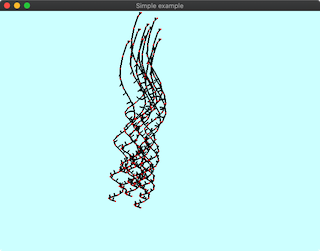
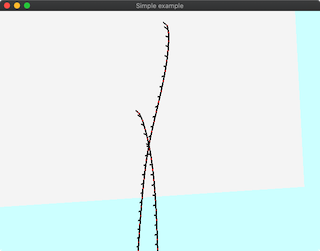
updated demo for rod contact #60 #40
added readme & thumbnail image
fixed minor compile error
add "find minimum lineseg liseg distance " to vec3.cpp

diff --git a/examples_glfwold/617_FemRodHairSelfcollision/main.cpp b/examples_glfwold/617_FemRodHairSelfcollision/main.cpp
@@ -117,112 +117,12 @@ void MakeProblemSetting_Spiral
   }
 }
 
-
-double FindMinimumDistance_EdgeEdge(
-    double p[3],
-    const dfm2::CVec3d& p0s,
-    const dfm2::CVec3d& p0e,
-    const dfm2::CVec3d& p1s,
-    const dfm2::CVec3d& p1e,
-    const dfm2::CVec3d& q0s,
-    const dfm2::CVec3d& q0e,
-    const dfm2::CVec3d& q1s,
-    const dfm2::CVec3d& q1e,
-    unsigned int nitr )
-{
-  dfm2::CVec3d v0;
-  for(unsigned int itr=0;itr<nitr;++itr) {
-    const double s0 = p[0], t0 = p[1], u0 = p[2];
-    v0 =
-        + ((1 - s0) * (1 - u0)) * p0s + ((1 - s0) * u0) * p0e + (s0 * (1 - u0)) * p1s + (s0 * u0) * p1e
-        - ((1 - t0) * (1 - u0)) * q0s - ((1 - t0) * u0) * q0e - (t0 * (1 - u0)) * q1s - (t0 * u0) * q1e;
-    const dfm2::CVec3d ds = -(1 - u0) * p0s - u0 * p0e + (1 - u0) * p1s + u0 * p1e;
-    const dfm2::CVec3d dt = +(1 - u0) * q0s + u0 * q0e - (1 - u0) * q1s - u0 * q1e;
-    const dfm2::CVec3d du =
-        - (1 - s0) * p0s + (1 - s0) * p0e - s0 * p1s + s0 * p1e
-        + (1 - t0) * q0s - (1 - t0) * q0e + t0 * q1s - t0 * q1e;
-    const dfm2::CVec3d dsu = + p0s - p0e - p1s + p1e;
-    const dfm2::CVec3d dtu = - q0s + q0e + q1s - q1e;
-    double R[3] = { v0*ds, v0*dt, v0*du };
-    double A[9] = {
-        ds*ds,        ds*dt,        ds*du+v0*dsu,
-        dt*ds,        dt*dt,        dt*du*v0*dtu,
-        du*ds+v0*dsu, du*dt+v0*dtu, du*du };
-    {
-      double eps = (A[0] + A[4] + A[8]) * 1.0e-10 + 1.0e-20;
-      A[0] += eps;
-      A[4] += eps;
-      A[8] += eps;
-    }
-    dfm2::Inverse_Mat3(A);
-    double D[3];
-    dfm2::MatVec3(D, A, R);
-    p[0] -= D[0];
-    p[1] -= D[1];
-    p[2] -= D[2];
-    if (p[0] < 0) { p[0] = 0.0; } else if (p[0] > 1) { p[0] = 1.0; }
-    if (p[1] < 0) { p[1] = 0.0; } else if (p[1] > 1) { p[1] = 1.0; }
-    if (p[2] < 0) { p[2] = 0.0; } else if (p[2] > 1) { p[2] = 1.0; }
-  }
-  return v0.Length();
-}
-
-
-
-double FindIntersection_LinesegLineseg(
-    double p[3],
-    const dfm2::CVec3d& p0s,
-    const dfm2::CVec3d& p0e,
-    const dfm2::CVec3d& p1s,
-    const dfm2::CVec3d& p1e,
-    const dfm2::CVec3d& q0s,
-    const dfm2::CVec3d& q0e,
-    const dfm2::CVec3d& q1s,
-    const dfm2::CVec3d& q1e,
-    unsigned int nitr )
-{
-  dfm2::CVec3d v0;
-  for(unsigned int itr=0;itr<nitr;++itr) {
-    const double s0 = p[0], t0 = p[1], u0 = p[2];
-    v0 =
-        + ((1 - s0) * (1 - u0)) * p0s + ((1 - s0) * u0) * p0e + (s0 * (1 - u0)) * p1s + (s0 * u0) * p1e
-        - ((1 - t0) * (1 - u0)) * q0s - ((1 - t0) * u0) * q0e - (t0 * (1 - u0)) * q1s - (t0 * u0) * q1e;
-    const dfm2::CVec3d ds = -(1 - u0) * p0s - u0 * p0e + (1 - u0) * p1s + u0 * p1e;
-    const dfm2::CVec3d dt = +(1 - u0) * q0s + u0 * q0e - (1 - u0) * q1s - u0 * q1e;
-    const dfm2::CVec3d du =
-        - (1 - s0) * p0s + (1 - s0) * p0e - s0 * p1s + s0 * p1e
-        + (1 - t0) * q0s - (1 - t0) * q0e + t0 * q1s - t0 * q1e;
-    double A[9] = {
-        ds * ds, ds * dt, ds * du,
-        dt * ds, dt * dt, dt * du,
-        du * ds, du * dt, du * du};
-    {
-      double eps = (A[0] + A[4] + A[8]) * 1.0e-10 + 1.0e-20;
-      A[0] += eps;
-      A[4] += eps;
-      A[8] += eps;
-    }
-    dfm2::Inverse_Mat3(A);
-    double R[3] = {v0 * ds, v0 * dt, v0 * du};
-    double D[3];
-    dfm2::MatVec3(D, A, R);
-    p[0] -= D[0];
-    p[1] -= D[1];
-    p[2] -= D[2];
-    if (p[0] < 0) { p[0] = 0.0; } else if (p[0] > 1) { p[0] = 1.0; }
-    if (p[1] < 0) { p[1] = 0.0; } else if (p[1] > 1) { p[1] = 1.0; }
-    if (p[2] < 0) { p[2] = 0.0; } else if (p[2] > 1) { p[2] = 1.0; }
-  }
-  return v0.Length();
-}
-
 void SolveSelfCollisionRod(
     std::vector<dfm2::CVec3d>& aPt,
     std::vector<dfm2::CContactHair>& aCollision,
     const double clearance,
     const std::vector<dfm2::CVec3d>& aP,
     const std::vector<unsigned int>& aIP_HairRoot) // indexes of root point
-//    bool is_project)
 {
   const unsigned int nr = aP.size();
   assert( aPt.size() == nr );
@@ -264,60 +164,10 @@ void SolveSelfCollisionRod(
       // collision
       bool is_near = false;
       double p[3] = {0.5, 0.5, 0.5};
-      {
-        double len0 = FindMinimumDistance_EdgeEdge(p,
-                                                   p0s, p0e, p1s, p1e, q0s, q0e, q1s, q1e, 10);
-//        if( len0 < clearance*2.0 ) {
-//          std::cout << ir << " " << jr << " " << len0 << " " << p[0] << " " << p[1] << " " << p[2] << std::endl;
-//        }
-        if( len0 < clearance ){ is_near = true; }
-      }
-      /*
-      if( !is_near ){
-        p[0] = 0.5;
-        p[1] = 0.5;
-        p[2] = 0.0;
-        double len0 = FindMinimumDistance_EdgeEdge(p,
-                                                   p0s, p0e, p1s, p1e, q0s, q0e, q1s, q1e, 10);
-        if( len0 < clearance*2.0 ) {
-          std::cout << ir << " " << jr << " " << len0 << " " << p[0] << " " << p[1] << " " << p[2] << std::endl;
-        }
-        if( len0 < clearance ){ is_near = true; }
-      }
-      if( !is_near ){
-        p[0] = 0.5;
-        p[1] = 0.5;
-        p[2] = 1.0;
-        double len0 = FindMinimumDistance_EdgeEdge(p,
-                                                   p0s, p0e, p1s, p1e, q0s, q0e, q1s, q1e, 10);
-        if( len0 < clearance*2.0 ) {
-          std::cout << ir << " " << jr << " " << len0 << " " << p[0] << " " << p[1] << " " << p[2] << std::endl;
-        }
-        if( len0 < clearance ){ is_near = true; }
-      }
-      if( !is_near ){
-        p[0] = 0.0;
-        p[1] = 1.0;
-        p[2] = 0.0;
-        double len0 = FindMinimumDistance_EdgeEdge(p,
-                                                   p0s, p0e, p1s, p1e, q0s, q0e, q1s, q1e, 10);
-        if( len0 < clearance*2.0 ) {
-          std::cout << ir << " " << jr << " " << len0 << " " << p[0] << " " << p[1] << " " << p[2] << std::endl;
-        }
-        if( len0 < clearance ){ is_near = true; }
-      }
-      if( !is_near ){
-        p[0] = 1.0;
-        p[1] = 0.0;
-        p[2] = 0.0;
-        double len0 = FindMinimumDistance_EdgeEdge(p,
-                                                   p0s, p0e, p1s, p1e, q0s, q0e, q1s, q1e, 10);
-        if( len0 < clearance*2.0 ) {
-          std::cout << ir << " " << jr << " " << len0 << " " << p[0] << " " << p[1] << " " << p[2] << std::endl;
-        }
-        if( len0 < clearance ){ is_near = true; }
-      }
-       */
+      double len0 = dfm2::Nearest_LineSeg_LineSeg_CCD_Iteration(
+          p,
+          p0s, p0e, p1s, p1e, q0s, q0e, q1s, q1e, 10);
+      if( len0 < clearance ){ is_near = true; }
       if( !is_near ){ continue; }
       double s1 = p[0], t1 = p[1], u1 = p[2];
       dfm2::CVec3d vs = (1-s1)*p0s + s1*p1s - (1-t1)*q0s - t1*q1s;
@@ -327,19 +177,7 @@ void SolveSelfCollisionRod(
       dfm2::CContactHair ch{ir + 0, ir + 1, s1,
                             jr + 0, jr + 1, t1,
                             vs.Normalize()};
-//      std::cout << "         contact founded " << ir << " " << jr << " " << p[0] << " " << p[1] << " " << p[2] << "   " << ch.norm << std::endl;
       aCollision.push_back(ch);
-      /*
-      if( is_project ) {
-        dfm2::CVec3d ve = (1 - s1) * p0e + s1 * p1e - (1 - t1) * q0e - t1 * q1e;
-        dfm2::CVec3d dv1 = vs.Normalize() * clearance - ve;
-        double W = 1.0 / ((1 - s1) * (1 - s1) + s1 * s1 + (1 - t1) * (1 - t1) + t1 * t1);
-        aPt[ir + 0] += dv1 * W * (1 - s1);
-        aPt[ir + 1] += dv1 * W * s1;
-        aPt[jr + 0] -= dv1 * W * (1 - t1);
-        aPt[jr + 1] -= dv1 * W * t1;
-      }
-       */
     } // jr
   } // ir
 }
@@ -349,7 +187,7 @@ int main(int argc,char* argv[])
   dfm2::opengl::CViewer_GLFW viewer;
   viewer.Init_oldGL();
   viewer.nav.camera.view_height = 1.5;
-  viewer.nav.camera.camera_rot_mode = delfem2::CCamera<double>::CAMERA_ROT_MODE::TBALL;
+  viewer.nav.camera.camera_rot_mode = delfem2::CCamera<double>::CAMERA_ROT_MODE::YTOP;
   viewer.nav.camera.Rot_Camera(-0.4, -0.1);
   delfem2::opengl::setSomeLighting();
   // -------
@@ -400,7 +238,6 @@ int main(int argc,char* argv[])
   double time_cur = 0.0;
   while (true)
   {
-//    std::cout << "####################" << std::endl;
     time_cur += dt;
     { // set fixed boundary condition
       unsigned int ip0 = aIP_HairRoot[1];
@@ -413,37 +250,29 @@ int main(int argc,char* argv[])
       aPt[ip] = aP[ip] + dt * aPV[ip] + (dt * dt / mass) * gravity;
     }
     // -----------
-    std::vector<dfm2::CContactHair> aContactOld = aContact;
-    aContact.clear();
-    for(const auto& chold : aContactOld){
-      if( chold.Direction(aP) * chold.norm > clearance ){ continue; }
-      aContact.push_back(chold);
-    }
-    /*
-    for(auto& ch: aContact){
-      std::cout << "      $$$" << std::endl;
-      std::cout << "     " << ch.norm.Length() << " " << ch.Direction(aP) * ch.norm << std::endl;
-      std::cout << "     " << ch.ip0 << " " << ch.ip1 << " " << ch.s << std::endl;
-      std::cout << "     " << ch.iq0 << " " << ch.iq1 << " " << ch.t << std::endl;
-    }
-     */
-    std::vector<dfm2::CContactHair> aContactNew;
-    SolveSelfCollisionRod(aPt,aContactNew,
-                          clearance,
-                          aP, aIP_HairRoot);
-    for(auto& chn: aContactNew){
-      bool is_included = false;
-      for(auto& cho: aContact){
-        if( cho.ip0 == chn.ip0 && cho.iq0 == chn.iq1 ){ is_included = true; break; }
+    { // update contacts
+      std::vector<dfm2::CContactHair> aContactOld = aContact;
+      aContact.clear();
+      for (const auto &chold : aContactOld) { // if contact is violated, hold the contact
+        if (chold.Direction(aP) * chold.norm > clearance) { continue; }
+        aContact.push_back(chold);
       }
-      if( is_included ) continue;
-      aContact.push_back(chn);
-      /*
-      std::cout << "      ###" << std::endl;
-      std::cout << "     " << chn.norm.Length() << " " << chn.Direction(aP) * chn.norm << std::endl;
-      std::cout << "     " << chn.ip0 << " " << chn.ip1 << " " << chn.s << std::endl;
-      std::cout << "     " << chn.iq0 << " " << chn.iq1 << " " << chn.t << std::endl;
-       */
+      // compute new contacts
+      std::vector<dfm2::CContactHair> aContactNew;
+      SolveSelfCollisionRod(aPt, aContactNew,
+                            clearance,
+                            aP, aIP_HairRoot);
+      for (auto &chn: aContactNew) { // add new contacts if it is missing.
+        bool is_included = false;
+        for (auto &cho: aContact) {
+          if (cho.ip0 == chn.ip0 && cho.iq0 == chn.iq1) {
+            is_included = true;
+            break;
+          }
+        }
+        if (is_included) continue;
+        aContact.push_back(chn);
+      }
     }
     dfm2::MakeDirectorOrthogonal_RodHair(aS,aPt);
     Solve_RodHairContact(
@@ -451,22 +280,6 @@ int main(int argc,char* argv[])
         stiff_stretch, stiff_bendtwist, mass/(dt*dt),
         aP0, aS0, aBCFlag, aIP_HairRoot,
         clearance, stiff_contact, aContact);
-
-    /*
-    for(auto& ch: aCollision){
-      dfm2::CVec3d ve = ch.Direction(aPt);
-      if( ve*ch.norm > 0 ){ continue; }
-      dfm2::CVec3d dv1 = ch.norm * (clearance-ve*ch.norm);
-      double s1 = ch.s;
-      double t1 = ch.t;
-      double W = 1.0 / ((1 - s1) * (1 - s1) + s1 * s1 + (1 - t1) * (1 - t1) + t1 * t1);
-      aPt[ch.ip0] += dv1 * W * (1 - s1);
-      aPt[ch.ip1] += dv1 * W * s1;
-      aPt[ch.iq0] -= dv1 * W * (1 - t1);
-      aPt[ch.iq1] -= dv1 * W * t1;
-    }
-     */
-
     // --------------
     for(unsigned int ip=0;ip<aP.size();++ip){
       if( aBCFlag[ip*4+0] != 0 ){ continue; }

diff --git a/include/delfem2/vec3.cpp b/include/delfem2/vec3.cpp
@@ -1102,6 +1102,58 @@ template void delfem2::nearest_LineSeg_Line
 
 // ---------------------------------------------
 
+DFM2_INLINE double delfem2::Nearest_LineSeg_LineSeg_CCD_Iteration(
+    double p[3],
+    const CVec3d& p0s,
+    const CVec3d& p0e,
+    const CVec3d& p1s,
+    const CVec3d& p1e,
+    const CVec3d& q0s,
+    const CVec3d& q0e,
+    const CVec3d& q1s,
+    const CVec3d& q1e,
+    unsigned int nitr )
+{
+  CVec3d v0;
+  for(unsigned int itr=0;itr<nitr;++itr) {
+    const double s0 = p[0], t0 = p[1], u0 = p[2];
+    v0 =
+        + ((1 - s0) * (1 - u0)) * p0s + ((1 - s0) * u0) * p0e + (s0 * (1 - u0)) * p1s + (s0 * u0) * p1e
+        - ((1 - t0) * (1 - u0)) * q0s - ((1 - t0) * u0) * q0e - (t0 * (1 - u0)) * q1s - (t0 * u0) * q1e;
+    const CVec3d ds = -(1 - u0) * p0s - u0 * p0e + (1 - u0) * p1s + u0 * p1e;
+    const CVec3d dt = +(1 - u0) * q0s + u0 * q0e - (1 - u0) * q1s - u0 * q1e;
+    const CVec3d du =
+        - (1 - s0) * p0s + (1 - s0) * p0e - s0 * p1s + s0 * p1e
+        + (1 - t0) * q0s - (1 - t0) * q0e + t0 * q1s - t0 * q1e;
+    const CVec3d dsu = + p0s - p0e - p1s + p1e;
+    const CVec3d dtu = - q0s + q0e + q1s - q1e;
+    double R[3] = { v0*ds, v0*dt, v0*du };
+    double A[9] = {
+        ds*ds,        ds*dt,        ds*du+v0*dsu,
+        dt*ds,        dt*dt,        dt*du*v0*dtu,
+        du*ds+v0*dsu, du*dt+v0*dtu, du*du };
+    {
+      double eps = (A[0] + A[4] + A[8]) * 1.0e-10 + 1.0e-20;
+      A[0] += eps;
+      A[4] += eps;
+      A[8] += eps;
+    }
+    double Ainv[9];
+    vec3::MyInverse_Mat3(Ainv, A);
+    double D[3];
+    vec3::MyMatVec3(D, Ainv, R);
+    p[0] -= D[0];
+    p[1] -= D[1];
+    p[2] -= D[2];
+    if (p[0] < 0) { p[0] = 0.0; } else if (p[0] > 1) { p[0] = 1.0; }
+    if (p[1] < 0) { p[1] = 0.0; } else if (p[1] > 1) { p[1] = 1.0; }
+    if (p[2] < 0) { p[2] = 0.0; } else if (p[2] > 1) { p[2] = 1.0; }
+  }
+  return v0.Length();
+}
+
+// ---------------------------------------------
+
 template <typename T>
 void delfem2::nearest_Line_Line
 (T& D, CVec3<T>& Da, CVec3<T>& Db,

diff --git a/include/delfem2/vec3.h b/include/delfem2/vec3.h
@@ -405,6 +405,20 @@ void nearest_Line_Line
   const CVec3<T>& pb_, const CVec3<T>& vb);
 
 // ------------------------------------
+
+DFM2_INLINE double Nearest_LineSeg_LineSeg_CCD_Iteration(
+    double p[3],
+    const CVec3d& p0s,
+    const CVec3d& p0e,
+    const CVec3d& p1s,
+    const CVec3d& p1e,
+    const CVec3d& q0s,
+    const CVec3d& q0e,
+    const CVec3d& q1s,
+    const CVec3d& q1e,
+    unsigned int nitr );
+
+// ------------------------------------
   
 /**
  *  @param D (out) scaling factor
